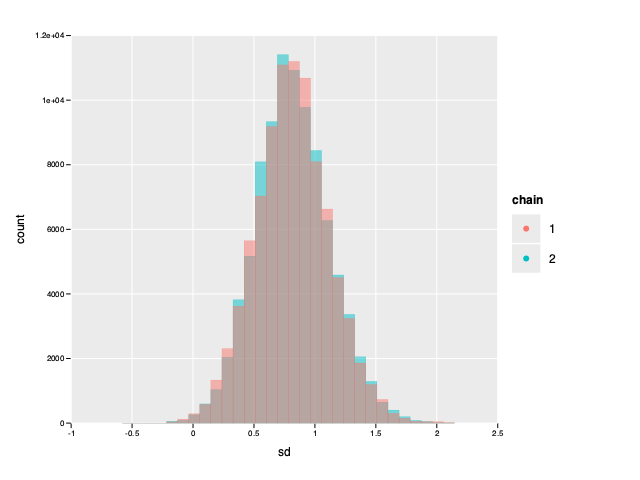
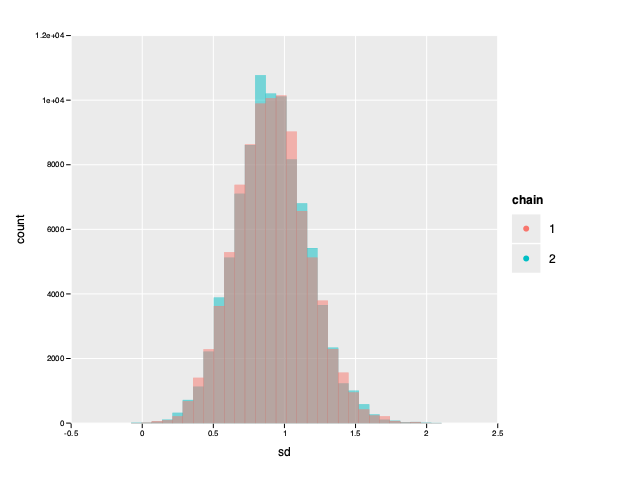
Changed some notation with standardization

diff --git a/index.html b/index.html
@@ -323,9 +323,9 @@ the mean. Let's see how close these values are to the true values of the paramet
 <span class="hljs-keyword">echo</span> meanB0
 <span class="hljs-keyword">echo</span> meanB1
 <span class="hljs-keyword">echo</span> meanSd</code></pre>
-<pre><samp>-0.1896050704901563
-1.001142183468065
-1.021478576011831
+<pre><samp>-0.1251009119571541
+1.001596464626197
+1.011896929529412
 </samp></pre>
 <h1>Credible Intervals</h1>
 <p>We The means give us a point estimate for our parameter values but they tell us
@@ -367,9 +367,9 @@ Credible interval threshold values are completely arbitrary.</p>
 <span class="hljs-keyword">echo</span> b0EtiMin, <span class="hljs-string">&quot; &quot;</span>, b0EtiMax
 <span class="hljs-keyword">echo</span> b1EtiMin, <span class="hljs-string">&quot; &quot;</span>, b1EtiMax
 <span class="hljs-keyword">echo</span> sdEtiMin, <span class="hljs-string">&quot; &quot;</span>, sdEtiMax</code></pre>
-<pre><samp>-0.6307753350130431 0.2405507379499496
-0.9943855120740054 1.007570304993719
-0.9054390323627701 1.153351581217871
+<pre><samp>-0.4803835706588309 0.2378119371313606
+0.9959716353081368 1.00720411862831
+0.8980368061360121 1.134114766605278
 </samp></pre>
 <h2>Highest Density Interval</h2>
 <pre><code class="nim hljs"><span class="hljs-keyword">proc</span> hdi(samples: <span class="hljs-built_in">seq</span>[<span class="hljs-built_in">float</span>]; credMass: <span class="hljs-built_in">float</span>): (<span class="hljs-built_in">float</span>, <span class="hljs-built_in">float</span>) =
@@ -393,13 +393,15 @@ Credible interval threshold values are completely arbitrary.</p>
 <span class="hljs-keyword">echo</span> b0HdiMin, <span class="hljs-string">&quot; &quot;</span>, b0HdiMax
 <span class="hljs-keyword">echo</span> b1HdiMin, <span class="hljs-string">&quot; &quot;</span>, b1HdiMax
 <span class="hljs-keyword">echo</span> sdHdiMin, <span class="hljs-string">&quot; &quot;</span>, sdHdiMax</code></pre>
-<pre><samp>-0.5734889260357414 0.2777193813084474
-0.9938846202187694 1.006982497732871
-0.8954264741762239 1.137726709605412
+<pre><samp>-0.476253695941856 0.2378119371313606
+0.9963459931011095 1.007488934544839
+0.9030441540178104 1.135387227509518
 </samp></pre>
 <h1>Standardize Data</h1>
 <p>We might be able to get even better mixing by standardizing the data and
 removing correlation between the slope and the intercept.</p>
+<p>$$ \zeta_{x_{i}} = \frac{x_{i} - \bar{x}}{SD_{x}} $$</p>
+<p>$$ \zeta_{y_{i}} = \frac{y_{i} - \bar{y}}{SD_{y}} $$</p>
 <pre><code class="nim hljs"><span class="hljs-keyword">var</span>
   stX = newSeq[<span class="hljs-built_in">float</span>](n)
   stY = newSeq[<span class="hljs-built_in">float</span>](n)
@@ -411,6 +413,7 @@ removing correlation between the slope and the intercept.</p>
   stX[i] = (x[i] - meanX) / sdX
   stY[i] = (y[i] - meanY) / sdY</code></pre>
 <p>We can see that these data are now centered around zero and have the same scale.</p>
+<p>TODO: Figure out why this isn't plotting correctly</p>
 <pre><code class="nim hljs"><span class="hljs-keyword">var</span> standardized = seqsToDf(stX, stY)
 ggplot(standardized, aes(<span class="hljs-string">&quot;x&quot;</span>, <span class="hljs-string">&quot;y&quot;</span>)) + geom_point() +
     ggsave(<span class="hljs-string">&quot;images/st-simulated-data.png&quot;</span>)</code></pre>
@@ -436,19 +439,19 @@ but let's see what happens if we leave them the same.</p>
 <span class="hljs-keyword">echo</span> mean(b0Samples2)
 <span class="hljs-keyword">echo</span> mean(b1Samples2)
 <span class="hljs-keyword">echo</span> mean(sdSamples2)</code></pre>
-<pre><samp>-3.009034459580238e-05
-0.9992240596569951
-0.04831925496994427
--4.533500297361768e-05
-0.9990553526596943
-0.0482398715278403
+<pre><samp>1.704149929882008e-05
+0.9993311284869305
+0.04339613598062367
+5.644329595113632e-05
+0.9992750249677675
+0.04335781101449433
 </samp></pre>
 <h3>Convert back to original scale</h3>
-<p>To interpret these new estimates we can convert back to the original scale.
-$$ \beta_{0} = \zeta_{0} SD_{y} + M_{y} - \zeta_{1} SD_{y} M_{x} / SD_{x} $$<br />
-$$ \beta_{1} = \zeta_{1} SD_{y} / SD_{x} $$
-TODO: Need to confirm that this is correct:
-$$ \tau = \zeta_{\tau} SD_{y} + M_{y} - \zeta_{1} SD_{y} M_{x} / SD_{x} $$</p>
+<p>To interpret these new estimates we can convert back to the original scale.</p>
+<p>$$ \beta_{0} = \zeta_{0} SD_{y} + \bar{y} - \zeta_{\beta_{1}} SD_{y} \bar{x} / SD_{x} $$<br />
+$$ \beta_{1} = \zeta_{\beta_{1}} SD_{y} / SD_{x} $$</p>
+<p>TODO: Need to confirm that this is correct:</p>
+<p>$$ \tau = \zeta_{\tau} SD_{y} + \bar{y} - \zeta_{\beta_{1}} SD_{y} \bar{x} / SD_{x} $$</p>
 <pre><code class="nim hljs"><span class="hljs-keyword">for</span> i <span class="hljs-keyword">in</span> <span class="hljs-number">0</span> ..&lt; nSamples:
   b0Samples1[i] = b0Samples1[i] * sdY + meanY -
       b1Samples1[i] * sdY * meanX / sdX
@@ -544,9 +547,9 @@ meanSd = mean(sdBurn)
 <span class="hljs-keyword">echo</span> meanB0
 <span class="hljs-keyword">echo</span> meanB1
 <span class="hljs-keyword">echo</span> meanSd</code></pre>
-<pre><samp>-0.2023695701968007
-1.001333366998545
-0.81801159699034
+<pre><samp>-0.1199786127847786
+1.001503504072793
+0.9111577291736185
 </samp></pre>
 <h1>Equal Tailed Interval</h1>
 <pre><code class="nim hljs">(b0EtiMin, b0EtiMax) = eti(b0Burn, <span class="hljs-number">0.89</span>)
@@ -555,9 +558,9 @@ meanSd = mean(sdBurn)
 <span class="hljs-keyword">echo</span> b0EtiMin, <span class="hljs-string">&quot; &quot;</span>, b0EtiMax
 <span class="hljs-keyword">echo</span> b1EtiMin, <span class="hljs-string">&quot; &quot;</span>, b1EtiMax
 <span class="hljs-keyword">echo</span> sdEtiMin, <span class="hljs-string">&quot; &quot;</span>, sdEtiMax</code></pre>
-<pre><samp>-0.693695074052286 0.2934419644980153
-0.9935717170889153 1.009000077356251
-0.3445385008873316 1.315096311924194
+<pre><samp>-0.5472818689204857 0.301686164574306
+0.994636736396688 1.008480039363207
+0.51226906697201 1.327108651576197
 </samp></pre>
 <h1>Highest Density Interval</h1>
 <pre><code class="nim hljs">(b0HdiMin, b0HdiMax) = hdi(b0Burn, <span class="hljs-number">0.89</span>)
@@ -566,9 +569,9 @@ meanSd = mean(sdBurn)
 <span class="hljs-keyword">echo</span> b0HdiMin, <span class="hljs-string">&quot; &quot;</span>, b0HdiMax
 <span class="hljs-keyword">echo</span> b1HdiMin, <span class="hljs-string">&quot; &quot;</span>, b1HdiMax
 <span class="hljs-keyword">echo</span> sdHdiMin, <span class="hljs-string">&quot; &quot;</span>, sdHdiMax</code></pre>
-<pre><samp>-0.6764543420027849 0.3091544890406936
-0.9937352611257259 1.009117141256259
-0.348118078157114 1.316757664459629
+<pre><samp>-0.532758446778665 0.312320382391384
+0.9942181012141709 1.008023046262762
+0.4953068004905106 1.305225549154549
 </samp></pre>
 <h1>Final Note</h1>
 <p>Of course we could have simply and more efficiently done this using least squares regression.
@@ -994,6 +997,11 @@ nbText: <span class="hljs-string">md&quot;&quot;&quot;
 # Standardize Data
 We might be able to get even better mixing by standardizing the data and 
 removing correlation between the slope and the intercept.
+
+$$ \zeta_{x_{i}} = \frac{x_{i} - \bar{x}}{SD_{x}} $$
+
+$$ \zeta_{y_{i}} = \frac{y_{i} - \bar{y}}{SD_{y}} $$
+
 &quot;&quot;&quot;</span>
 nbCode: 
   <span class="hljs-keyword">var</span> 
@@ -1010,6 +1018,8 @@ nbCode:
 
 nbText: <span class="hljs-string">md&quot;&quot;&quot;
 We can see that these data are now centered around zero and have the same scale.
+
+TODO: Figure out why this isn't plotting correctly
 &quot;&quot;&quot;</span>
 nbCode:
   <span class="hljs-keyword">var</span> standardized = seqsToDf(stX, stY)
@@ -1044,10 +1054,13 @@ nbCode:
 nbText: <span class="hljs-string">md&quot;&quot;&quot; 
 ### Convert back to original scale
 To interpret these new estimates we can convert back to the original scale.
-$$ \beta_{0} = \zeta_{0} SD_{y} + M_{y} - \zeta_{1} SD_{y} M_{x} / SD_{x} $$  
-$$ \beta_{1} = \zeta_{1} SD_{y} / SD_{x} $$ 
+
+$$ \beta_{0} = \zeta_{0} SD_{y} + \bar{y} - \zeta_{\beta_{1}} SD_{y} \bar{x} / SD_{x} $$  
+$$ \beta_{1} = \zeta_{\beta_{1}} SD_{y} / SD_{x} $$ 
+
 TODO: Need to confirm that this is correct:
-$$ \tau = \zeta_{\tau} SD_{y} + M_{y} - \zeta_{1} SD_{y} M_{x} / SD_{x} $$  
+
+$$ \tau = \zeta_{\tau} SD_{y} + \bar{y} - \zeta_{\beta_{1}} SD_{y} \bar{x} / SD_{x} $$  
 &quot;&quot;&quot;</span>
 nbCode: 
   <span class="hljs-keyword">for</span> i <span class="hljs-keyword">in</span> <span class="hljs-number">0</span> ..&lt; nSamples:
